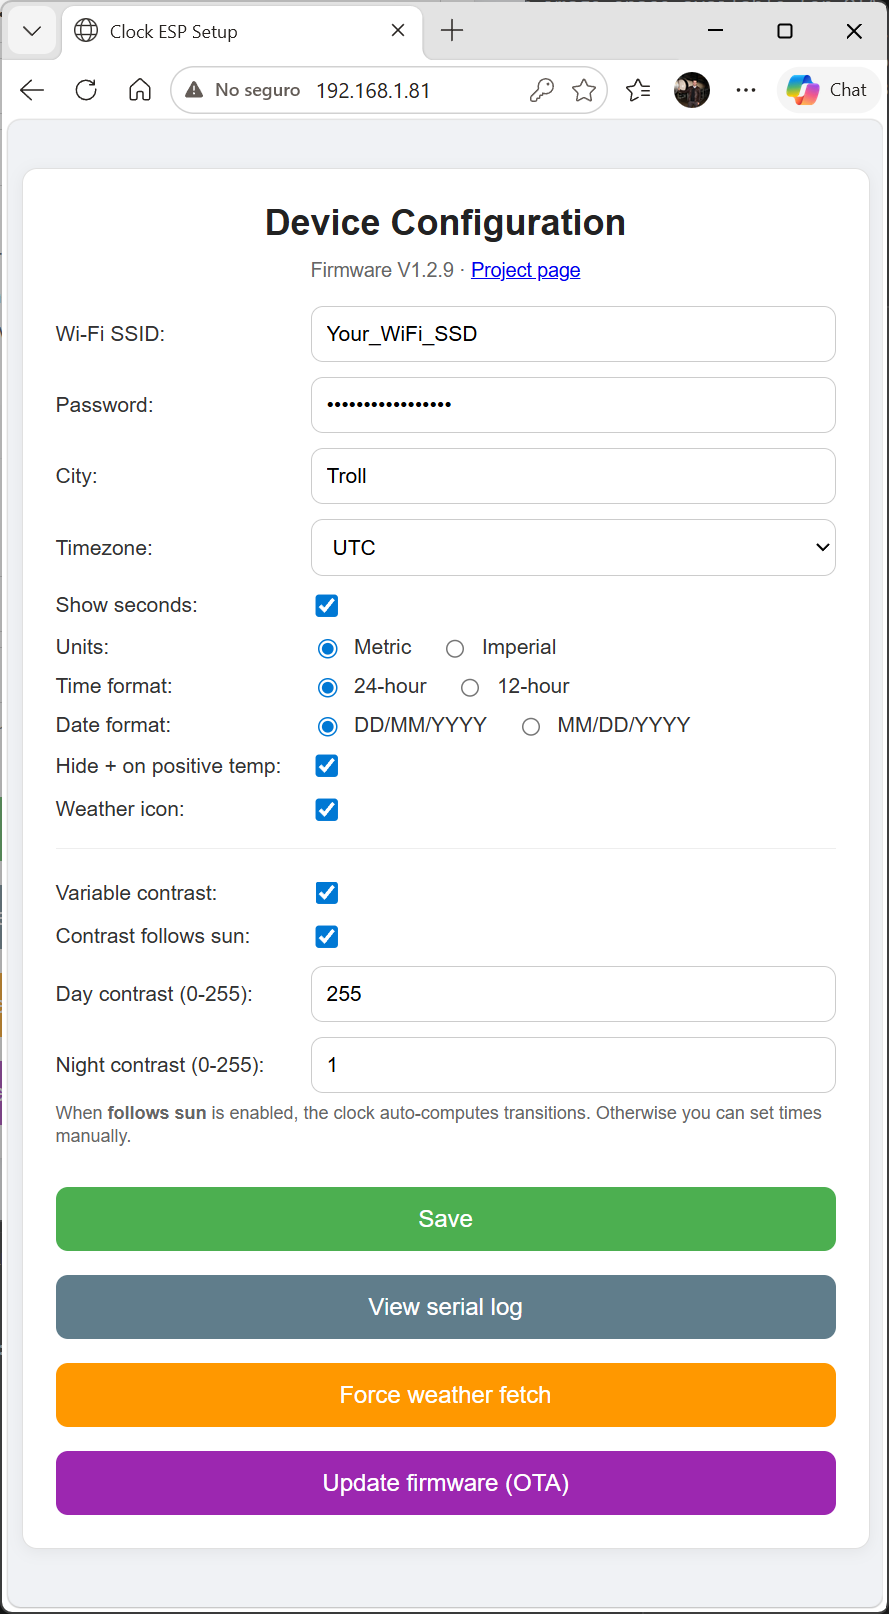
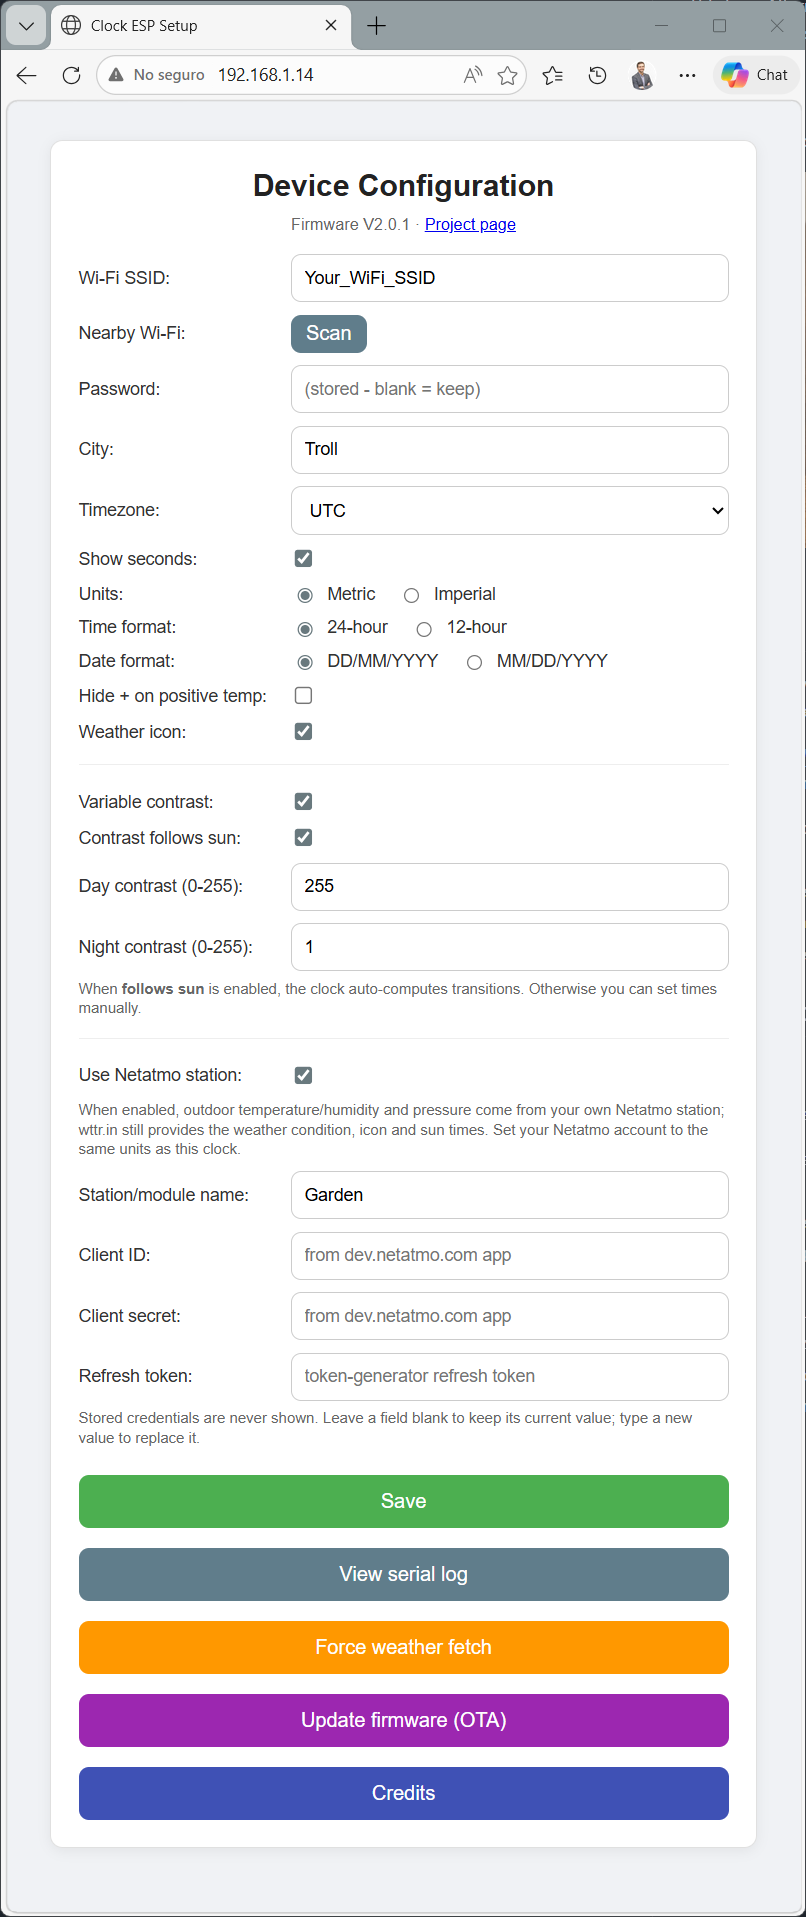
Updating the README and updated images

diff --git a/README.md b/README.md
@@ -12,6 +12,11 @@ or AliExpress. The kit includes a plexiglass structure and three PCB boards:
 <br/>Clock Face on the left, Weather face on the right
 </div>
 
+<div align="center">
+<img src="tools/screen_sim/screens.png" alt="Different possible Weather faces samples" width="80%"/>
+<br/>Different Faces examples showing different possible customizations
+</div>
+
 ## Why
 This kit already ships with a ready-to-use firmware, but it requires registering
 on an external website and you have no real control over what the firmware does
